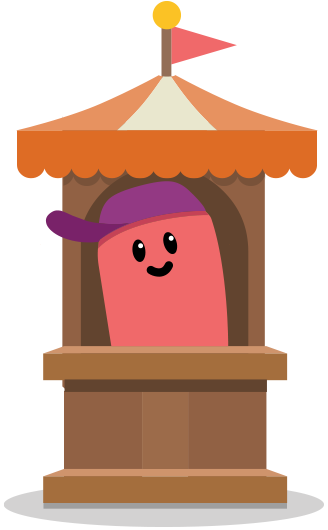
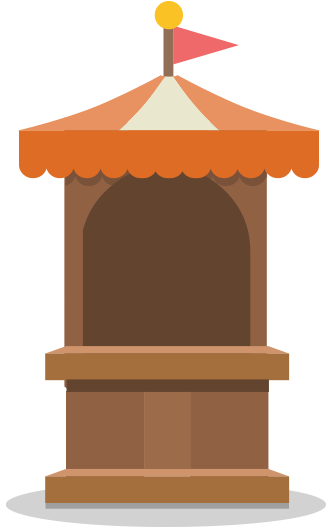
booth guy

diff --git a/index.html b/index.html
@@ -102,7 +102,8 @@
                       <a href="#" class="play_vid">Play Video</a>
                       <!--<div class='character snake' data-name='snake' data-animate='true' data-framestall='40' data-reverse='false' data-file='images/characters/snake.png' data-width='131' data-height='72' data-fps='30'></div>-->
                       <div class='character glue' data-name='glue' data-class='animated bob infinite' data-animate='true' data-framestall='1' data-file='images/characters/glue.png' data-width='113' data-height='136' data-fps='30'></div>
-                      <div class='character toasty' data-name='toasty' data-class='' data-animate='true' data-framestall='1' data-file='images/characters/toasty.png' data-width='153' data-height='143' data-fps='30'></div>
+                      <div class='character toasty' data-name='toasty' data-class='animated bob infinite' data-animate='true' data-framestall='1' data-file='images/characters/toasty.png' data-width='153' data-height='143' data-fps='30'></div>
+                      <div class='powerpoint'></div>
                       <div class='character medicine' data-name='medicine' data-class='animated bob infinite' data-animate='true' data-framestall='1' data-file='images/characters/medicine.png' data-width='122' data-height='130' data-fps='30'></div>
                     </div>
                     <div class="platform">
@@ -336,7 +337,9 @@
                   <p>Check website again soon for<br>our shop grand opening.</p>
                   <div class="searchlight left"></div>
                   <div class="searchlight right"></div>
-                  <img src='images/booth-man.png' alt='' class='booth-man'>
+                  <div class='booth-man'>
+                    <div class='dude-in-booth animated bob infinite'></div>
+                  </div>
                   <div class='character weightlifter' data-name='weightlifter' data-animate='true' data-framestall='30' data-alternate='true' data-file='images/characters/weightlifter.png' data-json='images/characters/weightlifter.json' data-fps='30'></div>
                   <!--
                   <form action="http://mccannau.createsend.com/t/j/s/nkihyt/" method="post" id="subForm">

diff --git a/scss/_intro.scss b/scss/_intro.scss
@@ -133,6 +133,21 @@
             @include respond-to($med) {
                 @include scale_bg(465,284,.5);
             }
+            .powerpoint {
+              width:15px;
+              height:23px;
+              background:url(../images/powerpoint.png) no-repeat;
+              position: absolute;
+              top: 257px;
+              left: 376px;
+              @include respond-to($desktop) {
+                  top: 220px;
+                  left: 340px;
+              }
+              @include respond-to($med) {
+                display:none;
+              }
+            }
             .character {
               position: absolute;
               &[data-framestall] {
@@ -146,10 +161,11 @@
                 top: 170px;
                 left: -40px;
                 @include respond-to($desktop) {
-                    top:150px;
+                  top:138px;
+                  left:40px;
                 }
                 @include respond-to($large) {
-                  left:40px;
+                  left:-130px;
                   top:140px;
                 }
               }
@@ -158,7 +174,7 @@
                 left:380px;
                 @include respond-to($desktop) {
                     top:123px;
-                    left: 342px;
+                    left: 344px;
                 }
               }
               &.medicine {

diff --git a/js/src/characters.js b/js/src/characters.js
@@ -91,7 +91,7 @@ define(function(require, exports, module) {
           if (data.framestall !== void 0) {
             $this.click(function(event) {
               $this.unbind('click');
-              var stime = new Date();
+              //var stime = new Date();
               clearInterval(interval);
               // Add onclick css3 animation
               if (data.click !== void 0)
@@ -112,8 +112,9 @@ define(function(require, exports, module) {
                 }
                 // Check to see if animation as finished
                 if (++i >= l) {
-                  console.log(new Date() - stime);
+                  //console.log(new Date() - stime);
                   clearInterval(interval);
+                  $this.removeClass(data.class);
                   if (data.callback !== void 0)
                     $this.addClass(data.callback);
                 }

diff --git a/scss/_shop.scss b/scss/_shop.scss
@@ -104,6 +104,21 @@
             @include scale_bg(328,530,.3);
             right:20px;
           }
+
+          .dude-in-booth {
+            background:url(../images/dude-in-booth.png) no-repeat;
+            width:185px;
+            height:165px;
+            position:absolute;
+            top: 146px;
+            left: 28px;
+            @include respond-to($med) {
+              @include scale_bg(185, 165, .3);
+              top: 54px;
+              left: 13px;
+            }
+              
+          }
         }
 
 			.shop_tent{
